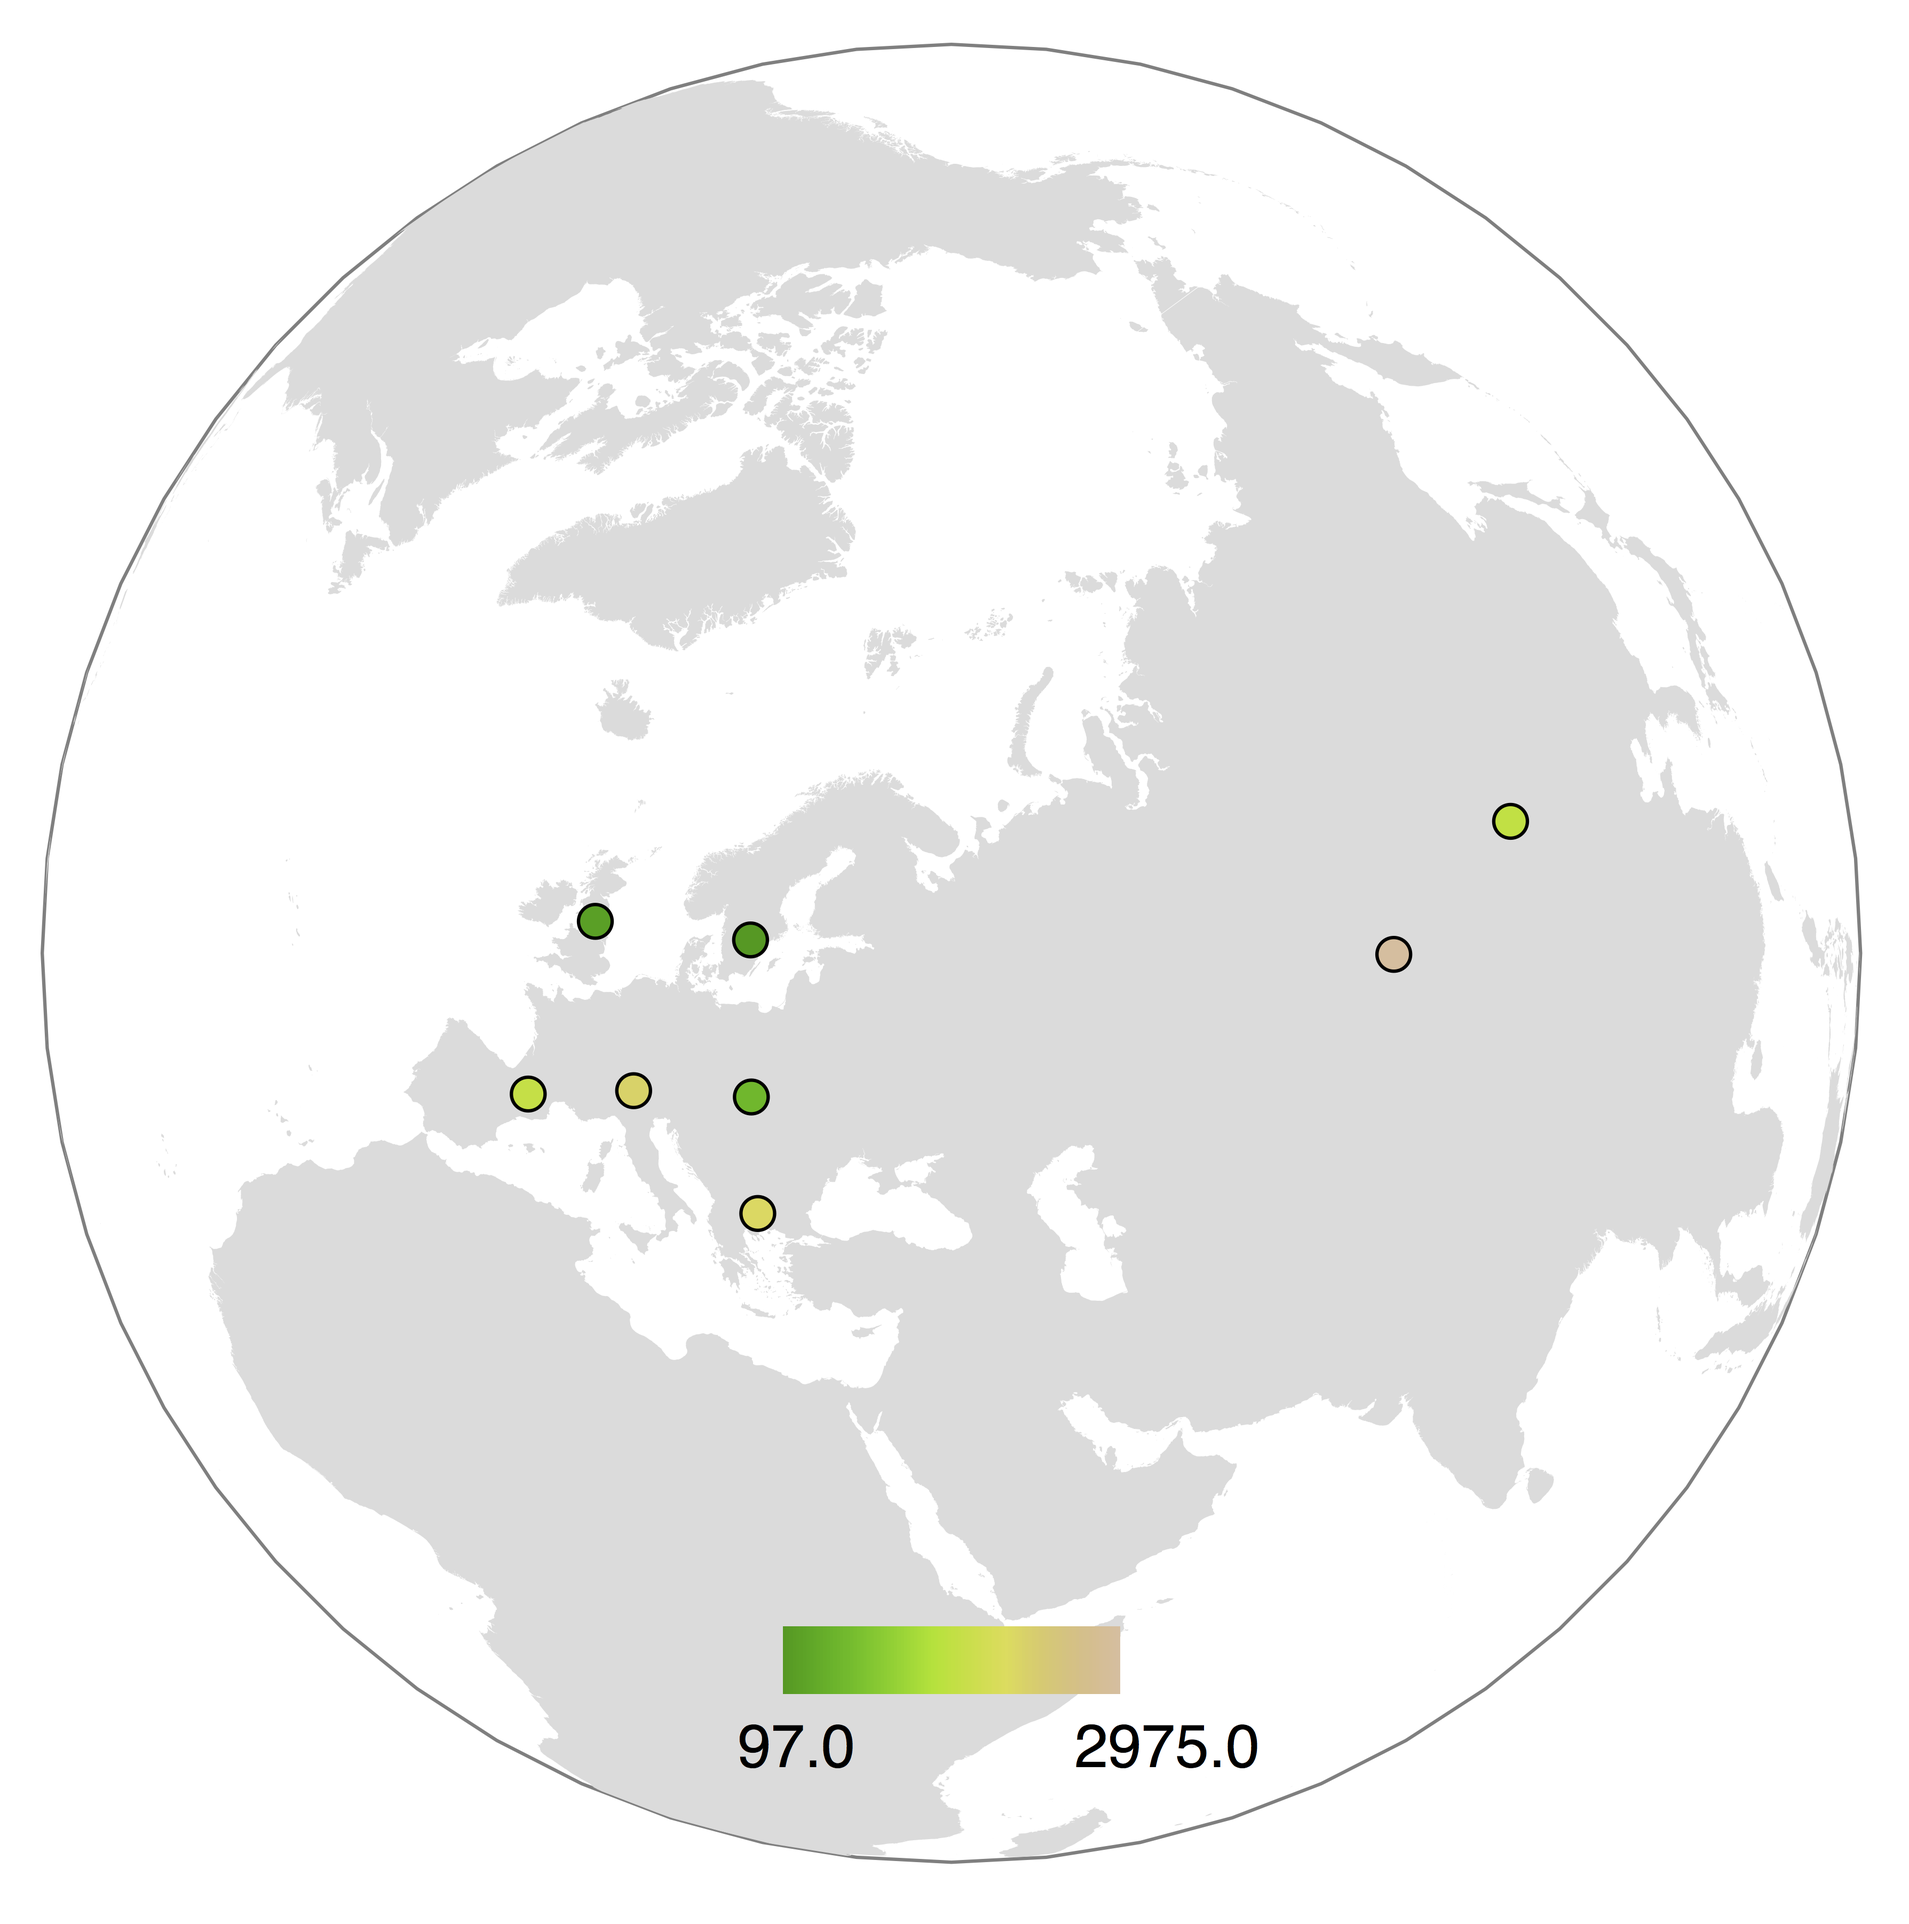
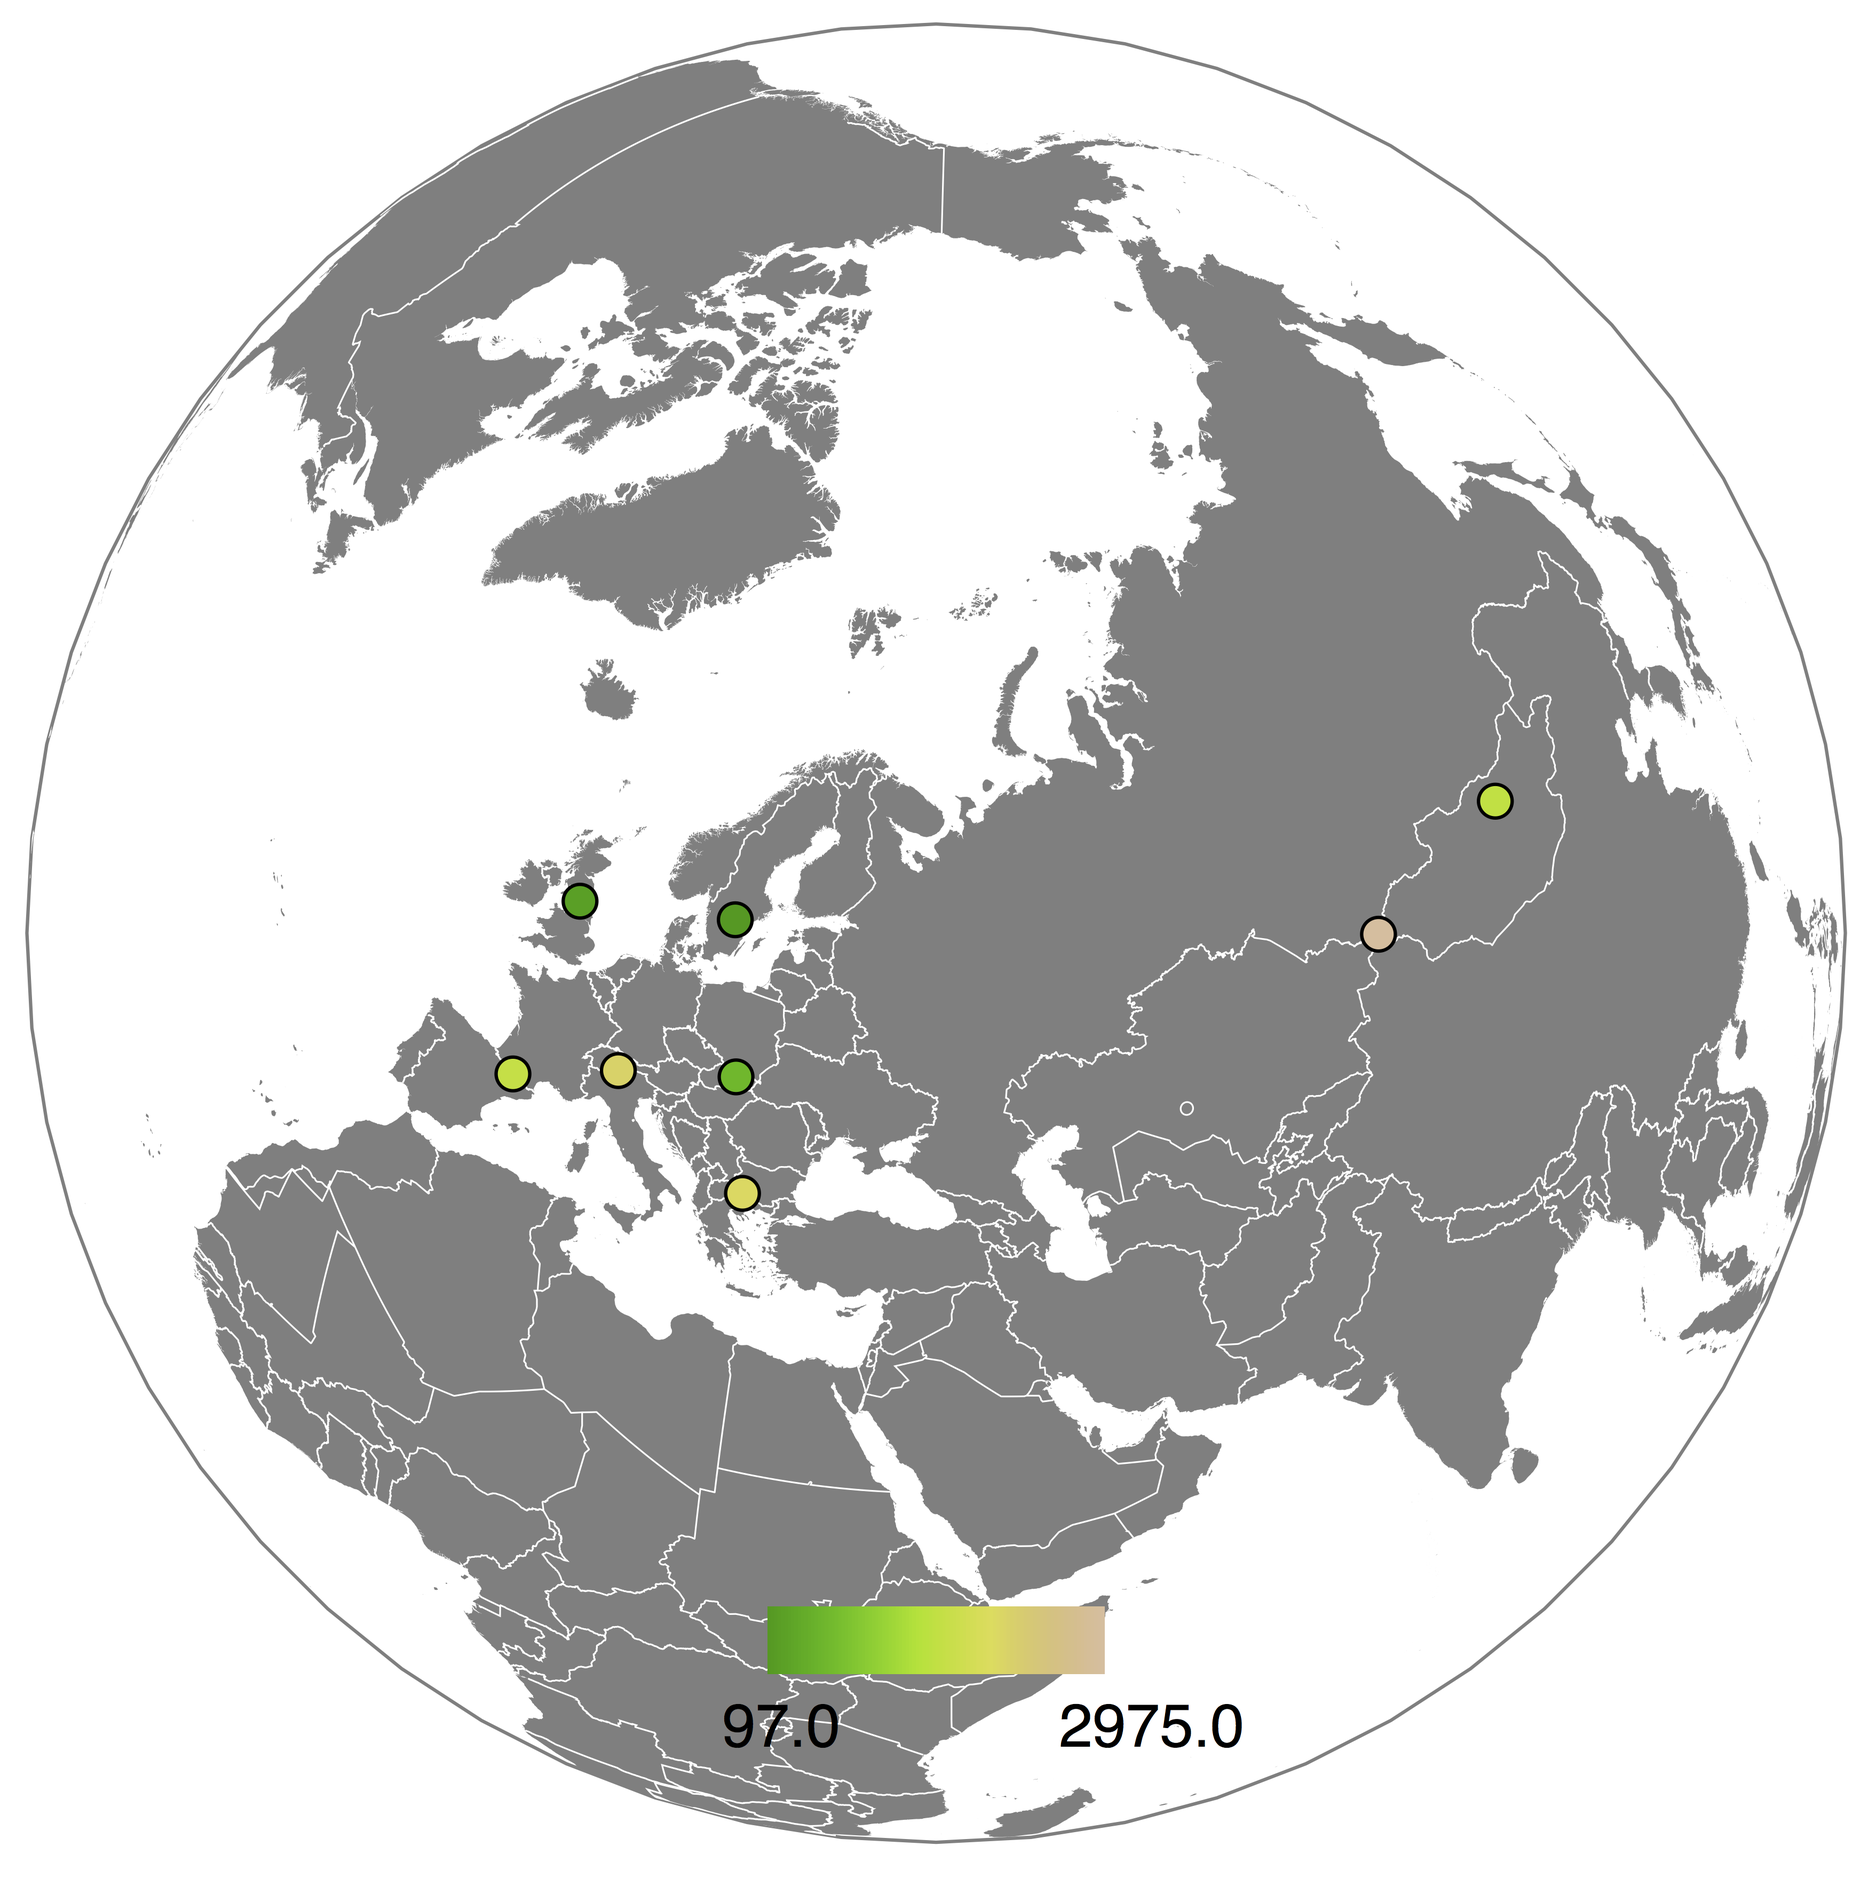
new README

diff --git a/README.md b/README.md
@@ -21,13 +21,15 @@ The configurable html code below applies to all cases.
 ```html
 <!DOCTYPE html>
 
+<!DOCTYPE html>
+
 <head>
-	<script src="https://d3js.org/d3.v4.min.js"></script>
-	<script src="https://d3js.org/d3-geo-projection.v1.min.js"></script>
-	<script src="https://d3js.org/topojson.v2.min.js"></script>
-	<script src="http://api.tiles.mapbox.com/mapbox.js/plugins/turf/v2.0.0/turf.min.js"></script>
-	<script src="bioDivMaps.js"></script>
-	<title>General Maps</title>
+    <script src="https://d3js.org/d3.v4.min.js"></script>
+    <script src="https://d3js.org/d3-geo-projection.v1.min.js"></script>
+    <script src="https://d3js.org/topojson.v2.min.js"></script>
+    <script src="http://api.tiles.mapbox.com/mapbox.js/plugins/turf/v2.0.0/turf.min.js"></script>
+    <script src="bioDivMaps.js"></script>
+    <title>bioDivMaps</title>
 </head>
 
 <style>
@@ -38,25 +40,25 @@ svg {
 }
 
 .graticule {
-	fill: none;
-	stroke: grey;
-	stroke-width: 1;
+    fill: none;
+    stroke: grey;
+    stroke-width: 1;
 }
 
 .mapBoarders {
-	fill: none;
-	stroke: #E8E8E8;
-	stroke-width: 1;
+    fill: none;
+    stroke: white;
+    stroke-width: 0.5;
 }
 
 .baseMap {
-	fill: Gainsboro;
+    fill: grey;
 }
 
 .points {
-	fill: grey;
-	stroke: black;
-	fill-opacity: 1;
+    fill: grey;
+    stroke: black;
+    fill-opacity: 1;
 }
 
 .scaleBar {
